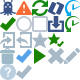
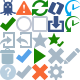
Deploy spaces-dev/SpacesPlus to github.com/spaces-dev/SpacesPlus.git:gh-pages

Changed region(s): [[0.4, 0.8, 0.6, 1.0], [0.6, 0.8, 0.8, 1.0]]

diff --git a/spaces-plus.user.js b/spaces-plus.user.js
@@ -371,7 +371,7 @@ exports.debug = (str) => console.debug(date() + str);
 "use strict";
 
 Object.defineProperty(exports, "__esModule", { value: true });
-exports.settingsChangelogMenu = exports.settingsRecentSmiles = exports.settingsBackupMenu = exports.settingsBackground = exports.videoSpeedPlayback = exports.settingsFeatures = exports.settingsWeather = exports.settingsFriends = exports.disableRedirect = exports.settingsNotify = exports.playerDownload = exports.hiddenRightbar = exports.deleteComments = exports.weatherWidget = exports.sidebarButton = exports.galleryRotate = exports.friendsOnline = exports.deleteReaders = exports.stickyHeader = exports.settingsMenu = exports.recentSmiles = exports.freeStickers = exports.favoriteUser = exports.checkUpdates = exports.betaFeatures = exports.soundNotify = exports.karmaAccept = exports.deleteBlogs = exports.coinsAccept = exports.apiDebugger = exports.userOnline = exports.userStatus = exports.scrollMove = exports.getUpdater = exports.setStyles = exports.oldHeader = exports.adBlock = void 0;
+exports.settingsChangelogMenu = exports.settingsRecentSmiles = exports.settingsBackupMenu = exports.settingsBackground = exports.videoSpeedPlayback = exports.settingsFeatures = exports.settingsWeather = exports.settingsFriends = exports.disableRedirect = exports.settingsNotify = exports.playerDownload = exports.hiddenRightbar = exports.deleteComments = exports.weatherWidget = exports.sidebarButton = exports.galleryRotate = exports.friendsOnline = exports.deleteReaders = exports.stickyHeader = exports.settingsMenu = exports.recentSmiles = exports.freeStickers = exports.favoriteUser = exports.checkUpdates = exports.betaFeatures = exports.soundNotify = exports.karmaAccept = exports.deleteBlogs = exports.coinsAccept = exports.apiDebugger = exports.userOnline = exports.userStatus = exports.scrollMove = exports.getUpdater = exports.setStyles = exports.oldHeader = exports.ipWhois = exports.adBlock = void 0;
 const adBlock_1 = __webpack_require__(14);
 Object.defineProperty(exports, "adBlock", { enumerable: true, get: function () { return adBlock_1.adBlock; } });
 const oldHeader_1 = __webpack_require__(39);
@@ -428,8 +428,6 @@ const disableRedirect_1 = __webpack_require__(62);
 Object.defineProperty(exports, "disableRedirect", { enumerable: true, get: function () { return disableRedirect_1.disableRedirect; } });
 const settingsFriends_1 = __webpack_require__(63);
 Object.defineProperty(exports, "settingsFriends", { enumerable: true, get: function () { return settingsFriends_1.settingsFriends; } });
-const settingsWeather_1 = __webpack_require__(11);
-Object.defineProperty(exports, "settingsWeather", { enumerable: true, get: function () { return settingsWeather_1.settingsWeather; } });
 const settingsFeatures_1 = __webpack_require__(64);
 Object.defineProperty(exports, "settingsFeatures", { enumerable: true, get: function () { return settingsFeatures_1.settingsFeatures; } });
 const videoSpeedPlayback_1 = __webpack_require__(66);
@@ -441,6 +439,9 @@ Object.defineProperty(exports, "settingsBackupMenu", { enumerable: true, get: fu
 const checkUpdates_1 = __webpack_require__(12);
 Object.defineProperty(exports, "checkUpdates", { enumerable: true, get: function () { return checkUpdates_1.checkUpdates; } });
 Object.defineProperty(exports, "getUpdater", { enumerable: true, get: function () { return checkUpdates_1.getUpdater; } });
+const settingsWeather_1 = __webpack_require__(11);
+Object.defineProperty(exports, "settingsWeather", { enumerable: true, get: function () { return settingsWeather_1.settingsWeather; } });
+Object.defineProperty(exports, "ipWhois", { enumerable: true, get: function () { return settingsWeather_1.ipWhois; } });
 const settingsRecentSmiles_1 = __webpack_require__(69);
 Object.defineProperty(exports, "settingsRecentSmiles", { enumerable: true, get: function () { return settingsRecentSmiles_1.settingsRecentSmiles; } });
 const settingsChangelogMenu_1 = __webpack_require__(70);
@@ -713,7 +714,7 @@ exports.friendsOnline = (t) => {
 "use strict";
 
 Object.defineProperty(exports, "__esModule", { value: true });
-exports.getWeather = exports.settingsWeather = void 0;
+exports.ipWhois = exports.getWeather = exports.settingsWeather = void 0;
 const utils_1 = __webpack_require__(0);
 const settings_1 = __webpack_require__(2);
 /**
@@ -721,33 +722,14 @@ const settings_1 = __webpack_require__(2);
  * @param e #weather
  */
 exports.settingsWeather = async (e) => {
+    var _a;
     /**
      * Отключаем скрытие правого меню, если оно включено
      */
     if (settings_1._SETTINGS.hrightbar)
         utils_1.qs('#hrightbar').click();
-    /**
-     * Инициализация ¯\_(ツ)_/¯
-     * Получаем город
-     */
-    if (settings_1._SETTINGS.weatherSet.city === null) {
-        try {
-            await utils_1.http('GET', 'https://ipwhois.app/json/?objects=city,success&lang=ru', false).then(e => {
-                const json = e.parsedBody;
-                if (json === null || json === void 0 ? void 0 : json.success) {
-                    settings_1._SETTINGS.weatherSet.city = json.city;
-                    utils_1.setCookie('SP_PLUS_SET', JSON.stringify(settings_1._SETTINGS));
-                    exports.getWeather();
-                }
-                else {
-                    utils_1.messageBox('Ошибка ipwhois', 'Обратитесь к разработчику!', true);
-                }
-            });
-        }
-        catch (e) {
-            utils_1.error('Ошибка (ipwhois): ' + e);
-        }
-    }
+    // Инициализация
+    (_a = settings_1._SETTINGS.weatherSet.city) !== null && _a !== void 0 ? _a : exports.ipWhois();
     let masWarp = utils_1.ce('div', { id: 'SP_WEATHER_SETTINGS', class: 'sp_settings-wrap' });
     let locationLbl = utils_1.ce('label', {
         html: 'API-Ключ:<div class="label__desc"><a href="https://openweathermap.org/appid" target="_blank">Получить ключ</a></div>',
@@ -845,7 +827,6 @@ exports.getWeather = async () => {
                 utils_1.messageBox('Виджет погоды', json.message, true, 5);
                 return false;
             }
-            // @ts-ignore Костыль ебаный!
             if (utils_1.qs('#SP-CITY-INPUT')) {
                 utils_1.qs('#SP-CITY-INPUT').value = json.name;
             }
@@ -860,6 +841,28 @@ exports.getWeather = async () => {
     }
     catch (e) {
         utils_1.error('Ошибка (openweathermap): ' + e);
+    }
+};
+/**
+ * Инициализация виджета погоды ¯\_(ツ)_/¯
+ * Получаем город пользователя
+ */
+exports.ipWhois = async () => {
+    try {
+        await utils_1.http('GET', 'https://ipwhois.app/json/?objects=city,success&lang=ru', false).then(e => {
+            const json = e.parsedBody;
+            if (json === null || json === void 0 ? void 0 : json.success) {
+                settings_1._SETTINGS.weatherSet.city = json.city;
+                utils_1.setCookie('SP_PLUS_SET', JSON.stringify(settings_1._SETTINGS));
+                exports.getWeather();
+            }
+            else {
+                utils_1.messageBox('Ошибка ipWhois', 'Обратитесь к разработчику!', true);
+            }
+        });
+    }
+    catch (e) {
+        utils_1.error('Ошибка (ipWhois): ' + e);
     }
 };
 
@@ -1970,7 +1973,7 @@ exports.deleteBlogs = () => {
                 // кнопка "Удалить выбранные"
                 const deleteBlogsButton = utils_1.ce('button', {
                     class: 'user__tools-link table__cell sp_btn_line sp_plus_btn_list',
-                    html: '<span class="ico ico_delete"></span><span class="sp-del-text">Удалить выбранные</span>',
+                    html: '<span class="sp sp-remove-red"></span><span class="sp-del-text">Удалить выбранные</span>',
                     onclick: () => {
                         let count = 0, blogs = [];
                         for (let ch of checkboxArr) {
@@ -2729,7 +2732,7 @@ exports.deleteReaders = () => {
                     });
                     const deleteReadersButton = utils_1.ce('button', {
                         class: 'user__tools-link table__cell sp_btn_line sp_plus_btn_list',
-                        html: '<span class="ico ico_delete"></span><span class="sp-del-text">Удалить выбранных</span>',
+                        html: '<span class="sp sp-remove-red"></span><span class="sp-del-text">Удалить выбранных</span>',
                         onclick: () => {
                             let count = 0, readers = [];
                             for (let ch of checkboxArr) {
@@ -2866,22 +2869,53 @@ exports.weatherWidget = () => {
         // обновляем виджет
         settingsWeather_1.getWeather();
     }
-    if (!widget && page_rightbar && utils_1.getCookie('SP_WEATHER')) {
-        // @ts-ignore Костылище
-        const w = JSON.parse(utils_1.getCookie('SP_WEATHER'));
+    if (!widget && page_rightbar && cookieWeather()) {
+        let { id, name, main, wind, weather, clouds } = cookieWeather();
         let widgets_group = utils_1.ce('div', {
             class: 'widgets-group_top js-container__block',
             style: 'box-shadow: 0px 3px 5px rgba(93,109,157,0.3)',
             id: 'SP_WIDGET_WEATHER'
         });
+        // шапка виджета
         let widget_header = utils_1.ce('div', {
             class: 'b-title cl b-title_first oh',
-            html: `<a href="https://openweathermap.org/city/${w.id}" target="_blank" class="b-title__link" style="white-space: unset"><h6 class="span">Погода в г. ${w.name}</h6></span></a>`
+            html: `
+                <a href="https://openweathermap.org/city/${id}" target="_blank" class="b-title__link" style="white-space: unset">
+                    <h6 class="span">Погода в г. ${name}</h6>
+                </a>
+            `
         });
+        // контейнер
         let content = utils_1.ce('div', {
             class: 'content',
             style: 'padding: 0px 16px 16px 16px',
-            html: `<img src="https://openweathermap.org/img/wn/${w.weather[0].icon}@2x.png" class="sp_img-center"><div class="grey sp_weather-container"><p>${Math.round(w.main.temp)}°C</p><p>${utils_1.toUpper(w.weather[0].description)}</p></div><table class="grey sp_weather-table"><tbody><tr><td>Облачность: </td><td>${w.clouds.all}%</td></tr><tr><td>Влажность: </td><td>${w.main.humidity}%</td></tr><tr><td>Давление: </td><td>${Math.round(w.main.pressure * 0.75)}mmHg</td></tr><tr><td>Ветер: </td><td>${w.wind.speed}m/sec</td></tr></tbody></table>`
+            html: `
+                <img src="https://openweathermap.org/img/wn/${weather[0].icon}@2x.png" class="sp_img-center">
+                    <div class="grey sp_weather-container">
+                    <p>${Math.round(main.temp)}°C</p>
+                    <p>${utils_1.toUpper(weather[0].description)}</p>
+                </div>
+                <table class="grey sp_weather-table">
+                    <tbody>
+                        <tr>
+                            <td>Облачность: </td>
+                            <td>${clouds.all}%</td>
+                        </tr>
+                        <tr>
+                            <td>Влажность: </td>
+                            <td>${main.humidity}%</td>
+                        </tr>
+                        <tr>
+                            <td>Давление: </td>
+                            <td>${Math.round(main.pressure * 0.75)}mmHg</td>
+                        </tr>
+                        <tr>
+                            <td>Ветер: </td>
+                            <td>${wind.speed}m/sec</td>
+                        </tr>
+                    </tbody>
+                </table>
+            `
         });
         widgets_group.appendChild(widget_header);
         widgets_group.appendChild(content);
@@ -2892,6 +2926,18 @@ exports.weatherWidget = () => {
  * unix время
  */
 const unixTime = () => Math.round(new Date().getTime() / 1000.0);
+/**
+ * получаем данные погоды из cookies, если не нашли, то инициализуем виджет по новой
+ */
+const cookieWeather = () => {
+    const data = utils_1.getCookie('SP_WEATHER');
+    if (data !== undefined) {
+        return JSON.parse(data);
+    }
+    else {
+        settingsWeather_1.ipWhois();
+    }
+};
 
 
 /***/ }),
@@ -2906,11 +2952,12 @@ const utils_1 = __webpack_require__(0);
 const strings_1 = __webpack_require__(1);
 exports.deleteComments = () => {
     var _a, _b, _c, _d, _e, _f, _g, _h, _j, _k, _l, _m;
+    let targetComm = utils_1.qs('h2.span');
     let childs = utils_1.qsa('span.comment_date');
     let delLinks = utils_1.qsa('a[class="ajax_delete"');
-    let targetComm = utils_1.qs('h2.span');
+    let delBtns = utils_1.qsa(`a[href^="${strings_1.SPACES}/comment/delete/"`);
     try {
-        if (childs && delLinks && (targetComm === null || targetComm === void 0 ? void 0 : targetComm.textContent) === 'Комментарии') {
+        if (childs && delLinks && delBtns.length > 0 && (targetComm === null || targetComm === void 0 ? void 0 : targetComm.textContent) === 'Комментарии') {
             for (let child of childs) {
                 // к новым комментариям добавляем чекбоксы
                 if (!child.getElementsByTagName('input').length) {
@@ -2958,7 +3005,7 @@ exports.deleteComments = () => {
                 });
                 const deleteCommentsButton = utils_1.ce('button', {
                     class: 'user__tools-link table__cell sp_btn_line sp_plus_btn_list',
-                    html: '<span class="ico ico_delete"></span><span class="sp-del-text">Удалить выбранные</span>',
+                    html: '<span class="sp sp-remove-red"></span><span class="sp-del-text">Удалить выбранные</span>',
                     onclick: () => {
                         var _a, _b, _c, _d, _e, _f, _g, _h, _j, _k, _l;
                         let inputs = utils_1.qsa('input[id^="DC_"]'), count = 0, urls = [];
@@ -3072,7 +3119,7 @@ exports.playerDownload = () => {
                 let dwnTd = utils_1.ce('td', {
                     id: 'SP_MUSIC_DOWN',
                     class: 'ico_td',
-                    innerHTML: '<span class="ico ico_download2" title="Скачать"></span>',
+                    innerHTML: '<span style="margin: 0px 6px 0px 0px !important" class="sp sp-download-darkblue" title="Скачать"></span>',
                     onclick: () => { location.href = trScr; }
                 });
                 utils_1.insertAfter(dwnTd, tdIc[0]);
@@ -3148,8 +3195,8 @@ exports.settingsNotify = (e) => {
         });
         let testPlay = utils_1.ce('span', {
             class: 'text-input__btn',
-            html: '<span class="js-ico sp sp-play-green"></span>',
-            style: 'margin-left: 7px; font-size: small; top: 23px',
+            html: '<span class="sp sp-play-green"></span>',
+            style: 'top: 23px',
             title: 'Прослушать',
             onclick: () => {
                 utils_1.playSound(settings_1._SETTINGS.notifySet.url, settings_1._SETTINGS.notifySet.volume);
@@ -3329,7 +3376,7 @@ exports.settingsFeatures = (root) => {
         class: 'stnd-link stnd-link_arr sp_font_sm',
         html: btnWrap(settings_1._SETTINGS.apidebug ?
             '<span class="sp sp-remove-grey mr-14"></span>Отключить отладчик' :
-            '<span class="ico ico_settings mr-14"></span>Включить отладчик'),
+            '<span class="sp sp-settings mr-14"></span>Включить отладчик'),
         onclick: () => {
             settings_1._SETTINGS.apidebug = settings_1._SETTINGS.apidebug ? false : true;
             utils_1.setCookie('SP_PLUS_SET', JSON.stringify(settings_1._SETTINGS));
@@ -3679,11 +3726,64 @@ const setColor = () => {
                 href: `${strings_1.ENV_PATH}/css/user-content.css?r=${strings_1.REVISION}`
             });
             document.getElementsByTagName('head')[0].appendChild(style);
-            let bodyStyle = utils_1.qs('#SP_PLUS_BODYSTYLE'), stdnC = utils_1.ce('div', { id: 'SP_WRAP_COLOR', style: 'border-top: 1px solid #cdd4e1' }), table = utils_1.ce('table', { class: 'table__wrap bb-colorpicker' }), tbody = utils_1.ce('tbody'), tr = utils_1.ce('tr'), td1 = utils_1.ce('td', { class: 'table__cell' }), td1div = utils_1.ce('div', {
-                class: 'stnd-block',
-                html: '<div><div style="background-color:#90CAF9" data-tag="fon" data-val="#90CAF9" class="js-bb_color toolbar-color pointer"></div> <div style="background-color:#80DEEA" data-tag="fon" data-val="#80DEEA" class="js-bb_color toolbar-color pointer"></div> <div style="background-color:#A5D6A7" data-tag="fon" data-val="#A5D6A7" class="js-bb_color toolbar-color pointer"></div> <div style="background-color:#FFF59D" data-tag="fon" data-val="#FFF59D" class="js-bb_color toolbar-color pointer"></div> <div style="background-color:#FFCC80" data-tag="fon" data-val="#FFCC80" class="js-bb_color toolbar-color pointer"></div> <div style="background-color:#FFAB91" data-tag="fon" data-val="#FFAB91" class="js-bb_color toolbar-color pointer"></div> <div style="background-color:#CE93D8" data-tag="fon" data-val="#CE93D8" class="js-bb_color toolbar-color pointer"></div> </div> <div> <div style="background-color:#2196F3" data-tag="fon" data-val="#2196F3" class="js-bb_color toolbar-color pointer"></div> <div style="background-color:#00BCD4" data-tag="fon" data-val="#00BCD4" class="js-bb_color toolbar-color pointer"></div> <div style="background-color:#4CAF50" data-tag="fon" data-val="#4CAF50" class="js-bb_color toolbar-color pointer"></div> <div style="background-color:#FFEB3B" data-tag="fon" data-val="#FFEB3B" class="js-bb_color toolbar-color pointer"></div> <div style="background-color:#FF9800" data-tag="fon" data-val="#FF9800" class="js-bb_color toolbar-color pointer"></div> <div style="background-color:#F44336" data-tag="fon" data-val="#F44336" class="js-bb_color toolbar-color pointer"></div> <div style="background-color:#9C27B0" data-tag="fon" data-val="#9C27B0" class="js-bb_color toolbar-color pointer"></div> </div> <div> <div style="background-color:#1565C0" data-tag="fon" data-val="#1565C0" class="js-bb_color toolbar-color pointer"></div> <div style="background-color:#00838F" data-tag="fon" data-val="#00838F" class="js-bb_color toolbar-color pointer"></div> <div style="background-color:#2E7D32" data-tag="fon" data-val="#2E7D32" class="js-bb_color toolbar-color pointer"></div> <div style="background-color:#F9A825" data-tag="fon" data-val="#F9A825" class="js-bb_color toolbar-color pointer"></div> <div style="background-color:#EF6C00" data-tag="fon" data-val="#EF6C00" class="js-bb_color toolbar-color pointer"></div> <div style="background-color:#C62828" data-tag="fon" data-val="#C62828" class="js-bb_color toolbar-color pointer"></div> <div style="background-color:#6A1B9A" data-tag="fon" data-val="#6A1B9A" class="js-bb_color toolbar-color pointer"></div> </div> <div> <div style="background-color:#ECF0F1" data-tag="fon" data-val="#ECF0F1" class="js-bb_color toolbar-color pointer"></div> <div style="background-color:#CFD8DC" data-tag="fon" data-val="#CFD8DC" class="js-bb_color toolbar-color pointer"></div> <div style="background-color:#B0BEC5" data-tag="fon" data-val="#B0BEC5" class="js-bb_color toolbar-color pointer"></div> <div style="background-color:#97A6B0" data-tag="fon" data-val="#97A6B0" class="js-bb_color toolbar-color pointer"></div> <div style="background-color:#546E7A" data-tag="fon" data-val="#546E7A" class="js-bb_color toolbar-color pointer"></div> <div style="background-color:#44565E" data-tag="fon" data-val="#44565E" class="js-bb_color toolbar-color pointer"></div> <div style="background-color:#3A474C" data-tag="fon" data-val="#3A474C" class="js-bb_color toolbar-color pointer"></div></div>'
+            let colorsTd = utils_1.ce('div', {
+                class: 'stnd-block'
             });
-            td1.appendChild(td1div);
+            let bodyStyle = utils_1.qs('#SP_PLUS_BODYSTYLE'), stdnC = utils_1.ce('div', { id: 'SP_WRAP_COLOR', style: 'border-top: 1px solid #cdd4e1' }), table = utils_1.ce('table', { class: 'table__wrap bb-colorpicker' }), tbody = utils_1.ce('tbody'), tr = utils_1.ce('tr'), td1 = utils_1.ce('td', { class: 'table__cell' });
+            // цвета для быстрого выбора
+            const colors = [
+                [
+                    "#90CAF9",
+                    "#80DEEA",
+                    "#A5D6A7",
+                    "#FFF59D",
+                    "#FFCC80",
+                    "#FFAB91",
+                    "#CE93D8"
+                ],
+                [
+                    "#2196F3",
+                    "#00BCD4",
+                    "#4CAF50",
+                    "#FFEB3B",
+                    "#FF9800",
+                    "#F44336",
+                    "#9C27B0",
+                ],
+                [
+                    "#1565C0",
+                    "#00838F",
+                    "#2E7D32",
+                    "#F9A825",
+                    "#EF6C00",
+                    "#C62828",
+                    "#6A1B9A"
+                ],
+                [
+                    "#ECF0F1",
+                    "#CFD8DC",
+                    "#B0BEC5",
+                    "#97A6B0",
+                    "#546E7A",
+                    "#44565E",
+                    "#3A474C"
+                ]
+            ];
+            for (let color of colors) {
+                for (let i in color) {
+                    let dd = utils_1.ce('div', {
+                        style: `background-color: ${color[i]}`,
+                        class: 'js-bb_color toolbar-color pointer',
+                        attr: {
+                            'data-val': color[i],
+                            'data-tag': 'fon'
+                        }
+                    });
+                    colorsTd.appendChild(dd);
+                }
+                colorsTd.appendChild(utils_1.ce('br'));
+            }
+            td1.appendChild(colorsTd);
             tr.appendChild(td1);
             let td2 = utils_1.ce('td', { class: 'table__cell table__cell_last' }), stnd = utils_1.ce('div', { class: 'stnd-block' }), container = utils_1.ce('div', { class: 'js-bb_colorpicker' });
             stnd.appendChild(container);
@@ -3721,9 +3821,9 @@ const setColor = () => {
                     utils_1.setCookie('SP_PLUS_SET', JSON.stringify(settings_1._SETTINGS));
                     setStyles_1.setStyles();
                 });
-                const colors = document.querySelectorAll('.js-bb_color');
-                for (let color of colors) {
-                    color.onclick = (e) => {
+                const colorsBtn = document.querySelectorAll('.js-bb_color');
+                for (let color of colorsBtn) {
+                    color.addEventListener('click', (e) => {
                         let value = e.target.getAttribute('data-val');
                         // @ts-ignore
                         utils_1.qs('#color-input').value = value;
@@ -3734,7 +3834,7 @@ const setColor = () => {
                         utils_1.setCookie('SP_PLUS_SET', JSON.stringify(settings_1._SETTINGS));
                         setStyles_1.setStyles();
                         picker.set(value);
-                    };
+                    });
                 }
             }, 100);
         }

diff --git a/css/menu.css b/css/menu.css
@@ -1,1 +1,1 @@
-.sp-input-error{border:1px solid #ff9a95;background-color:#fdf3ef}.sp-cbfb+label:before{left:12px!important;top:13px!important}.sp-cbfc+label:before{left:10px!important;top:13px!important}.sp-cbfr+label:before{left:5px!important;top:2px!important}.rotate270{transform:rotate(270deg) translateY(-100%) translateY(100%) translateX(100%) translateX(-100%)!important}.rotate180{transform:rotate(180deg) translateY(100%) translateY(-100%)!important}.rotate90{transform:rotate(90deg)!important}.trash-btn{float:left;margin:2px 2px 0 6px!important;cursor:pointer}.sp_settings-wrap{padding:11px 15px}.sp_bg-items{display:inline-block;max-width:100%;width:100%}.sp_info-btn{cursor:help;margin-top:2px!important;float:right}.sp_img-center{display:block;margin-left:auto;margin-right:auto}.sp_weather-container{margin-bottom:10px;text-align:center;font-size:18px}.sp_weather-table>tbody>tr>td{width:100%;max-width:inherit;padding-top:4px;overflow:hidden}.sp_weather-table>tbody>tr>td:last-child{text-align:right}.sp-ch-text{color:#57a3ea;padding-left:10px}.sp-del-text{color:#f86934;padding-left:10px}.sp-ch-readers{right:50px;top:-42px;padding-left:8px!important;padding-right:0!important}.sp-ch-blogs{padding:13px 5px 12px 30px!important}.pointer{cursor:pointer}.sp_unsupported{background:#f9edbf!important}@media (min-width:900px){.sticker{width:25rem;max-width:25rem!important}}.sp-sticker-anim{animation-duration:.3s;animation-name:fadeIn}@keyframes fadeIn{0%{opacity:0}to{opacity:1}}#api_debug-place{background:#ecf5fd;padding:8px;display:none}#api_debug-result_info{font-size:small}.mr-14{margin-right:14px!important}.sp_recent-smile-btn{padding:0 8px 2px 0;cursor:pointer}.sp_recent-smile{margin:2px;cursor:pointer}.smiles_menu{margin-bottom:10px}.sp_noborder{border-top:unset!important;border-bottom:unset!important}.sp_newbq_l{border-top:1px solid #c5d3e1!important}.sp_font_sm{font-size:small!important}.sp_last_btn{font-size:small;border-bottom:unset!important}.sp_plus_btn_list{width:50%;display:inline-block;box-sizing:border-box!important}.sp_error-block{padding-left:30px;font-size:small}.sp_plus_line_c:before{content:"";display:block;border-bottom:1px solid #cdd4e1;left:48px;right:80px;top:50%;position:absolute}.sp_plus_line_c{position:relative}.sp_plus_c_desc{font-size:small;margin-left:3rem}.sp_plus_c_wrap{padding:5px 15px 5px 16px;display:block}ul.list>li{margin:10px}.close_h:hover{opacity:.8}@media (min-width:1024px){.w400{max-width:400px}}.border{border:1px solid #b4bed1}#check_point_full_info{background:#4d5961;box-shadow:0 3px 5px #293238}#debug .check_point:hover,.tree_element:hover>.ns{background:#818f99}.disabled{cursor:not-allowed}div.row4{color:#000}input[type=range]{background:0 0;height:0;-webkit-appearance:none;margin:10px 0;width:100%}input[type=range]:focus{outline:0}input[type=range]::-webkit-slider-runnable-track{width:100%;height:10px;cursor:pointer;animation:.2s;background:#395387;border-radius:32px;border:0 solid #000}input[type=range]::-webkit-slider-thumb{border:0 solid #2497e3;height:10px;width:10px;border-radius:4px;background:#395387;cursor:pointer;-webkit-appearance:none;margin-top:0}input[type=range]:focus::-webkit-slider-runnable-track{background:#d2e3f4}input[type=range]::-moz-range-track{-webkit-box-shadow:inset 0 1px 2px #7690c7;-moz-box-shadow:inset 0 1px 2px #7690c7;box-shadow:inset 0 1px 2px #7690c7;width:100%;height:10px;cursor:pointer;animation:.2s;background:#d2e3f4;border-radius:32px;border:0 solid #000}input[type=range]::-moz-range-thumb{border:0 solid #2497e3;height:10px;width:10px;border-radius:4px;background:#395387;cursor:pointer}input[type=range]::-ms-track{width:100%;height:10px;cursor:pointer;animation:.2s;background:0 0;border-color:transparent;color:transparent}input[type=range]::-ms-fill-lower,input[type=range]::-ms-fill-upper{background:#d2e3f4;border:0 solid #000;border-radius:64px}input[type=range]::-ms-thumb{margin-top:1px;border:0 solid #2497e3;height:10px;width:10px;border-radius:4px;background:#395387;cursor:pointer}input[type=range]:focus::-ms-fill-lower,input[type=range]:focus::-ms-fill-upper{background:#d2e3f4}input[type=range]::-moz-range-progress{border-radius:4px;height:10px;background-color:#395387}input[type=range]::-ms-fill-lower{border-radius:4px;height:10px;background-color:#395387}@keyframes heartbeat{0%,40%,80%,to{-webkit-transform:scale(.75);-moz-transform:scale(.75);transform:scale(.75)}20%,60%{-webkit-transform:scale(1);-moz-transform:scale(1);transform:scale(1)}}.heart{-webkit-animation:heartbeat 1s infinite;-moz-animation:heartbeat 1s infinite;animation:heartbeat 1s infinite;display:inline-block;cursor:pointer}.no-select{-webkit-user-select:none;-moz-user-select:none;-ms-user-select:none}details summary:hover{cursor:pointer}.sp{background-image:url(../icons/icons.png);display:inline-block;width:16px;height:16px;margin:0 4px -3px 0}.sp-checkbox-checked+label,.sp-checkbox-circle+label,.sp-checkbox-square+label{position:relative;overflow:hidden;cursor:pointer;text-decoration:none!important}.sp-checkbox-checked+label{margin-left:5px;padding:0 4px;vertical-align:top;width:16px;height:16px;display:inline-block}.sp-checkbox-circle+label,.sp-checkbox-square+label{padding:11px 5px 12px 30px}.sp-checkbox-checked+label:before,.sp-checkbox-square+label:before{background-position:-32px -16px}.sp-checkbox-checked+label:before,.sp-checkbox-circle+label:before,.sp-checkbox-square+label:before{position:absolute;display:inline-block;content:"";width:16px;height:16px;background-color:transparent;background-image:url(../icons/icons.png)}.sp-checkbox-checked+label:before,.sp-checkbox-circle+label:before{background-position:-16px -16px}.sp-checkbox-circle+label:before,.sp-checkbox-square+label:before{left:0;top:12px}.sp-checkbox-checked+label:before{top:8px;margin-top:-8px}.sp-checkbox-checked:checked+label:before,.sp-checkbox-circle:checked+label:before,.sp-checkbox-square:checked+label:before{background-position:0 -16px}.sp-checkbox-checked,.sp-checkbox-circle,.sp-checkbox-square{position:absolute;left:-10000px}.sp_plus_line>span{background:#fff;padding:0 5px;position:relative;margin:0 10px;display:inline-block}.sp_plus_line:before{content:"";display:block;border-bottom:1px solid #cdd4e1;left:0;right:0;top:50%;position:absolute}.sp_plus_line{text-align:center;position:relative;font-weight:700}.sp_plus_text{color:#395387}.sp_lines{border-top:1px solid #c5d3e1!important}.bstrwrap{border-bottom:unset!important;border-top:1px solid #cdd4e1}input[type=color]{opacity:0;cursor:pointer}.sp_btn_line{border-right:1px solid #cdd4e1}.sp-qrcode{background-position:0 0}.sp-alert{background-position:-16px 0}.sp-backup-g{background-position:-32px 0}@media (max-width:899px){.sp-ico{background-position:-64px -32px!important}}.dark_theme .sp-ico{background-position:-64px -32px!important}.sp-ico{display:block;position:absolute;top:50%;margin:-8px 0 0 -26px;background-position:-48px 0}.sp-download-darkblue{background-position:-48px -16px}.sp-enter-grey{background-position:0 -32px}.sp-exit-grey{background-position:-16px -32px}@media (max-width:480px){.sp-fav,.sp-fav-on{display:none}}.sp-fav{background-position:-32px -32px}.sp-fav-on{background-position:-48px -32px}.sp-love{background-position:0 -48px}.sp-ok-blue{background-position:-16px -48px}.sp-ok-grey{background-position:-16px -64px}.sp-play-green{background-position:-32px -48px}.sp-remove-grey{background-position:-48px -48px}.sp-restore-blue{background-position:-64px 0}.sp-restore-g{background-position:-64px -16px}.sp-write-grey{background-position:-64px -48px}.sp-grey-del{background-position:0 -48px}.sp-info{background-position:0 -64px}
+.sp-input-error{border:1px solid #ff9a95;background-color:#fdf3ef}.sp-cbfb+label:before{left:12px!important;top:13px!important}.sp-cbfc+label:before{left:10px!important;top:13px!important}.sp-cbfr+label:before{left:5px!important;top:2px!important}.rotate270{transform:rotate(270deg) translateY(-100%) translateY(100%) translateX(100%) translateX(-100%)!important}.rotate180{transform:rotate(180deg) translateY(100%) translateY(-100%)!important}.rotate90{transform:rotate(90deg)!important}.trash-btn{float:left;margin:2px 2px 0 6px!important;cursor:pointer}.sp_settings-wrap{padding:11px 15px}.sp_bg-items{display:inline-block;max-width:100%;width:100%}.sp_info-btn{cursor:help;margin-top:2px!important;float:right}.sp_img-center{display:block;margin-left:auto;margin-right:auto}.sp_weather-container{margin-bottom:10px;text-align:center;font-size:18px}.sp_weather-table>tbody>tr>td{width:100%;max-width:inherit;padding-top:4px;overflow:hidden}.sp_weather-table>tbody>tr>td:last-child{text-align:right}.sp-ch-text{color:#57a3ea;padding-left:10px}.sp-del-text{color:#f86934;padding-left:10px}.sp-ch-readers{right:50px;top:-42px;padding-left:8px!important;padding-right:0!important}.sp-ch-blogs{padding:13px 5px 12px 30px!important}.pointer{cursor:pointer}.sp_unsupported{background:#f9edbf!important}@media (min-width:900px){.sticker{width:25rem;max-width:25rem!important}}.sp-sticker-anim{animation-duration:.3s;animation-name:fadeIn}@keyframes fadeIn{0%{opacity:0}to{opacity:1}}#api_debug-place{background:#ecf5fd;padding:8px;display:none}#api_debug-result_info{font-size:small}.mr-14{margin-right:14px!important}.sp_recent-smile-btn{padding:0 8px 2px 0;cursor:pointer}.sp_recent-smile{margin:2px;cursor:pointer}.smiles_menu{margin-bottom:10px}.sp_noborder{border-top:unset!important;border-bottom:unset!important}.sp_newbq_l{border-top:1px solid #c5d3e1!important}.sp_font_sm{font-size:small!important}.sp_last_btn{font-size:small;border-bottom:unset!important}.sp_plus_btn_list{width:50%;display:inline-block;box-sizing:border-box!important}.sp_error-block{padding-left:30px;font-size:small}.sp_plus_line_c:before{content:"";display:block;border-bottom:1px solid #cdd4e1;left:48px;right:80px;top:50%;position:absolute}.sp_plus_line_c{position:relative}.sp_plus_c_desc{font-size:small;margin-left:3rem}.sp_plus_c_wrap{padding:5px 15px 5px 16px;display:block}ul.list>li{margin:10px}.close_h:hover{opacity:.8}@media (min-width:1024px){.w400{max-width:400px}}.border{border:1px solid #b4bed1}#check_point_full_info{background:#4d5961;box-shadow:0 3px 5px #293238}#debug .check_point:hover,.tree_element:hover>.ns{background:#818f99}.disabled{cursor:not-allowed}div.row4{color:#000}input[type=range]{background:0 0;height:0;-webkit-appearance:none;margin:10px 0;width:100%}input[type=range]:focus{outline:0}input[type=range]::-webkit-slider-runnable-track{width:100%;height:10px;cursor:pointer;animation:.2s;background:#395387;border-radius:32px;border:0 solid #000}input[type=range]::-webkit-slider-thumb{border:0 solid #2497e3;height:10px;width:10px;border-radius:4px;background:#395387;cursor:pointer;-webkit-appearance:none;margin-top:0}input[type=range]:focus::-webkit-slider-runnable-track{background:#d2e3f4}input[type=range]::-moz-range-track{-webkit-box-shadow:inset 0 1px 2px #7690c7;-moz-box-shadow:inset 0 1px 2px #7690c7;box-shadow:inset 0 1px 2px #7690c7;width:100%;height:10px;cursor:pointer;animation:.2s;background:#d2e3f4;border-radius:32px;border:0 solid #000}input[type=range]::-moz-range-thumb{border:0 solid #2497e3;height:10px;width:10px;border-radius:4px;background:#395387;cursor:pointer}input[type=range]::-ms-track{width:100%;height:10px;cursor:pointer;animation:.2s;background:0 0;border-color:transparent;color:transparent}input[type=range]::-ms-fill-lower,input[type=range]::-ms-fill-upper{background:#d2e3f4;border:0 solid #000;border-radius:64px}input[type=range]::-ms-thumb{margin-top:1px;border:0 solid #2497e3;height:10px;width:10px;border-radius:4px;background:#395387;cursor:pointer}input[type=range]:focus::-ms-fill-lower,input[type=range]:focus::-ms-fill-upper{background:#d2e3f4}input[type=range]::-moz-range-progress{border-radius:4px;height:10px;background-color:#395387}input[type=range]::-ms-fill-lower{border-radius:4px;height:10px;background-color:#395387}@keyframes heartbeat{0%,40%,80%,to{-webkit-transform:scale(.75);-moz-transform:scale(.75);transform:scale(.75)}20%,60%{-webkit-transform:scale(1);-moz-transform:scale(1);transform:scale(1)}}.heart{-webkit-animation:heartbeat 1s infinite;-moz-animation:heartbeat 1s infinite;animation:heartbeat 1s infinite;display:inline-block;cursor:pointer}.no-select{-webkit-user-select:none;-moz-user-select:none;-ms-user-select:none}details summary:hover{cursor:pointer}.sp{background-image:url(../icons/icons.png);display:inline-block;width:16px;height:16px;margin:0 4px -3px 0}.sp-checkbox-checked+label,.sp-checkbox-circle+label,.sp-checkbox-square+label{position:relative;overflow:hidden;cursor:pointer;text-decoration:none!important}.sp-checkbox-checked+label{margin-left:5px;padding:0 4px;vertical-align:top;width:16px;height:16px;display:inline-block}.sp-checkbox-circle+label,.sp-checkbox-square+label{padding:11px 5px 12px 30px}.sp-checkbox-checked+label:before,.sp-checkbox-square+label:before{background-position:-32px -16px}.sp-checkbox-checked+label:before,.sp-checkbox-circle+label:before,.sp-checkbox-square+label:before{position:absolute;display:inline-block;content:"";width:16px;height:16px;background-color:transparent;background-image:url(../icons/icons.png)}.sp-checkbox-checked+label:before,.sp-checkbox-circle+label:before{background-position:-16px -16px}.sp-checkbox-circle+label:before,.sp-checkbox-square+label:before{left:0;top:12px}.sp-checkbox-checked+label:before{top:8px;margin-top:-8px}.sp-checkbox-checked:checked+label:before,.sp-checkbox-circle:checked+label:before,.sp-checkbox-square:checked+label:before{background-position:0 -16px}.sp-checkbox-checked,.sp-checkbox-circle,.sp-checkbox-square{position:absolute;left:-10000px}.sp_plus_line>span{background:#fff;padding:0 5px;position:relative;margin:0 10px;display:inline-block}.sp_plus_line:before{content:"";display:block;border-bottom:1px solid #cdd4e1;left:0;right:0;top:50%;position:absolute}.sp_plus_line{text-align:center;position:relative;font-weight:700}.sp_plus_text{color:#395387}.sp_lines{border-top:1px solid #c5d3e1!important}.bstrwrap{border-bottom:unset!important;border-top:1px solid #cdd4e1}input[type=color]{opacity:0;cursor:pointer}.sp_btn_line{border-right:1px solid #cdd4e1}.sp-qrcode{background-position:0 0}.sp-alert{background-position:-16px 0}.sp-backup-g{background-position:-32px 0}@media (max-width:899px){.sp-ico{background-position:-64px -32px!important}}.dark_theme .sp-ico{background-position:-64px -32px!important}.sp-ico{display:block;position:absolute;top:50%;margin:-8px 0 0 -26px;background-position:-48px 0}.sp-download-darkblue{background-position:-48px -16px}.sp-enter-grey{background-position:0 -32px}.sp-exit-grey{background-position:-16px -32px}@media (max-width:480px){.sp-fav,.sp-fav-on{display:none}}.sp-fav{background-position:-32px -32px}.sp-fav-on{background-position:-48px -32px}.sp-love{background-position:0 -48px}.sp-ok-blue{background-position:-16px -48px}.sp-ok-grey{background-position:-16px -64px}.sp-play-green{background-position:-32px -48px;position:absolute;top:50%;left:50%;margin-top:-8px;margin-left:-8px}.sp-remove-grey{background-position:-48px -48px}.sp-remove-red{background-position:-32px -64px}.sp-restore-blue{background-position:-64px 0}.sp-restore-g{background-position:-64px -16px}.sp-write-grey{background-position:-64px -48px}.sp-grey-del{background-position:0 -48px}.sp-info{background-position:0 -64px}.sp-settings{background-position:-48px -64px}
